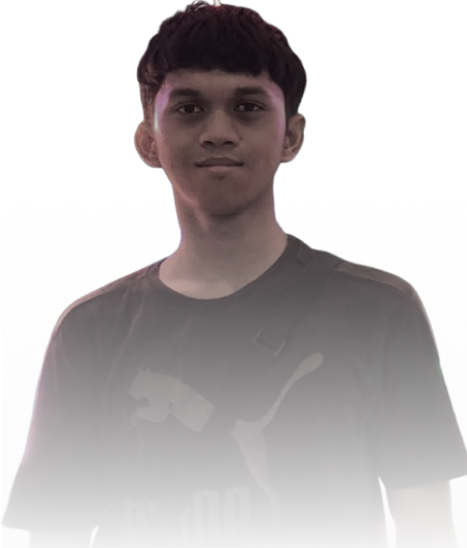
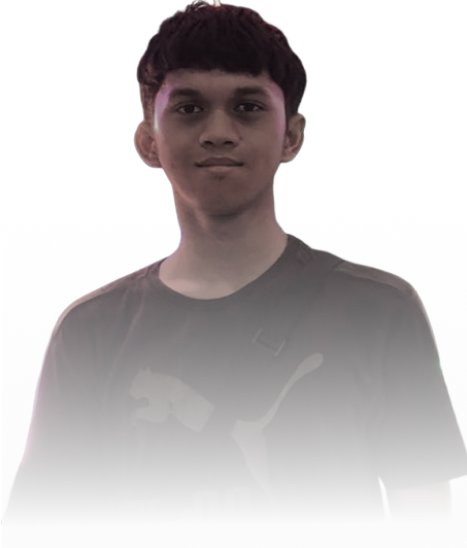
Changed the profile-pic to more appealing picture and addes some fade effect

diff --git a/styles/utility.css b/styles/utility.css
@@ -38,8 +38,16 @@
   width: 100%;
   margin-left: auto;
   margin-right: auto;
-  padding-left: 0.5rem;
-  padding-right: 0.5rem;
+  padding-left: 1.5rem;
+  padding-right: 1.5rem;
+}
+
+.containe1r {
+  width: 0%;
+  margin-left: 0;
+  margin-right: 0;
+  padding-left: 0;
+  padding-right: 0;
 }
 
 .section {
